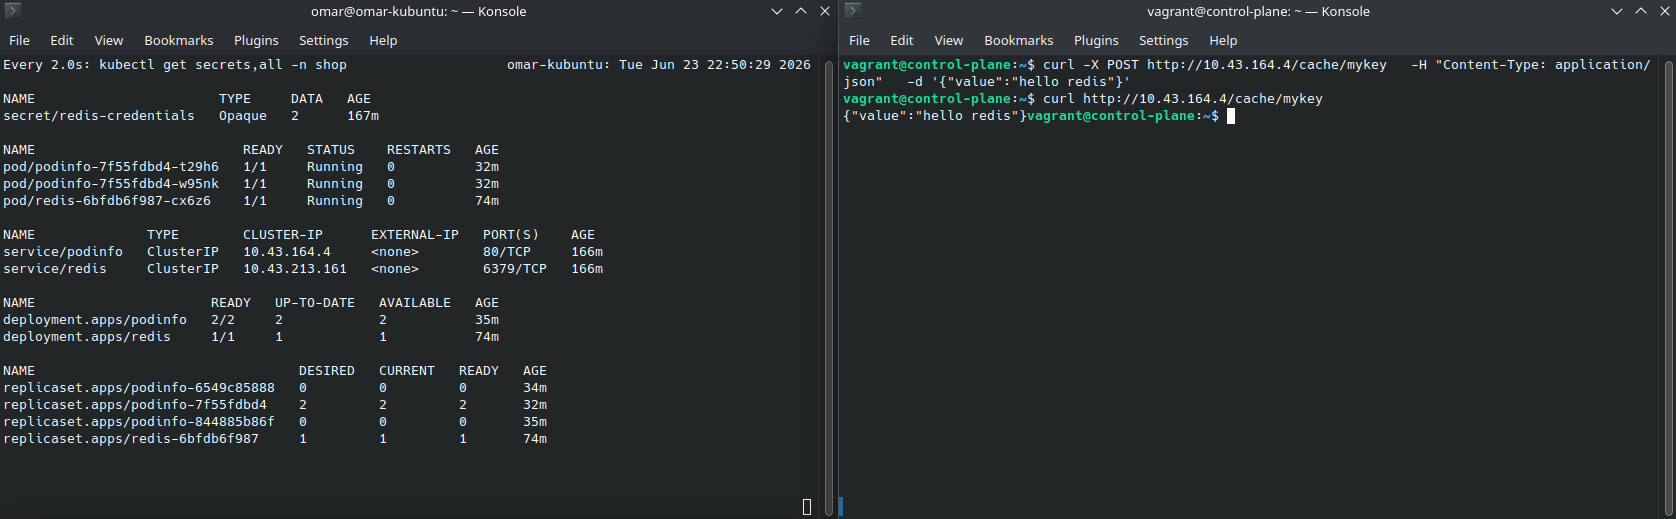
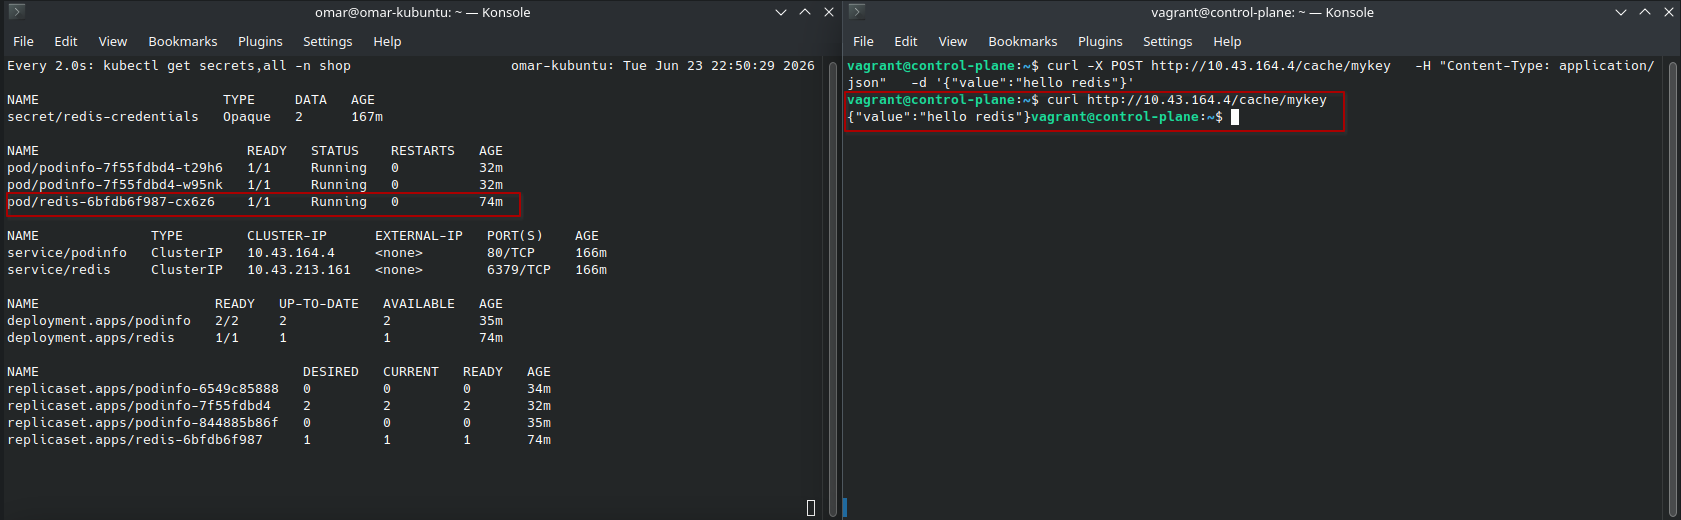
add ingress nginx controller

diff --git a/task-2-kubernetes/K8s-README.md b/task-2-kubernetes/K8s-README.md
@@ -319,6 +319,49 @@ kubectl get networkpolicy -n shop
 # redis-allow-podinfo  app=redis      Xs
 ```
 
+## Ingress Controller & Resource
+
+### 1. Install NGINX Ingress Controller (Baremetal)
+
+Since we are running a self-managed baremetal k3s cluster, we deploy the NGINX Ingress Controller using the baremetal manifest. This exposes the controller using a `NodePort` service instead of a cloud-provider `LoadBalancer`:
+
+```bash
+kubectl apply -f https://raw.githubusercontent.com/kubernetes/ingress-nginx/controller-v1.7.1/deploy/static/provider/baremetal/deploy.yaml
+```
+
+*(Note: If you run into admission webhook errors when applying resources immediately after installation, wait a few seconds for the controller pod to transition to `Running` and `Ready` so the validation webhook endpoints become active.)*
+
+### 2. The Ingress Resource (`podinfo-ingress.yaml`)
+
+We define an Ingress resource that maps HTTP traffic on the root path `/` to the `podinfo` Service on port `80`:
+
+```yaml
+# podinfo-ingress.yaml
+apiVersion: networking.k8s.io/v1
+kind: Ingress
+metadata:
+  name: podinfo
+  namespace: shop
+spec:
+  ingressClassName: nginx
+  rules:
+    - http:
+        paths:
+          - path: /
+            pathType: Prefix
+            backend:
+              service:
+                name: podinfo
+                port:
+                  number: 80
+```
+
+Apply it using:
+
+```bash
+kubectl apply -f kubernetes/podinfo-ingress.yaml
+```
+
 ---
 
 ## Verify
@@ -341,5 +384,26 @@ If Redis is unavailable, the cache endpoints return errors — the screenshots b
 
 podinfo can write to and read from Redis, confirming both the deployment and the service wiring are correct.
 
-#### 3. pod in same cluster cant reach redis due to network policy
+### 2. Network Policy isolation
+
+Other pods in the cluster cannot connect to Redis on port 6379 unless they have the label `app: podinfo`.
+
 ![alt text](images/image-4.png)
+
+### 3. Ingress Routing & Frontend Reachability
+
+Verify that the Ingress controller correctly routes external requests to the `podinfo` service.
+
+First, get the assigned NodePort of the `ingress-nginx-controller` service:
+
+```bash
+kubectl get svc -n ingress-nginx ingress-nginx-controller
+```
+
+Then, query the `/readyz` endpoint of `podinfo` using the VM Node IP and the mapped HTTP NodePort:
+
+```bash
+curl http://<NODE_IP>:<NODE_PORT>/readyz
+```
+
+![alt text](images/image-5.png)